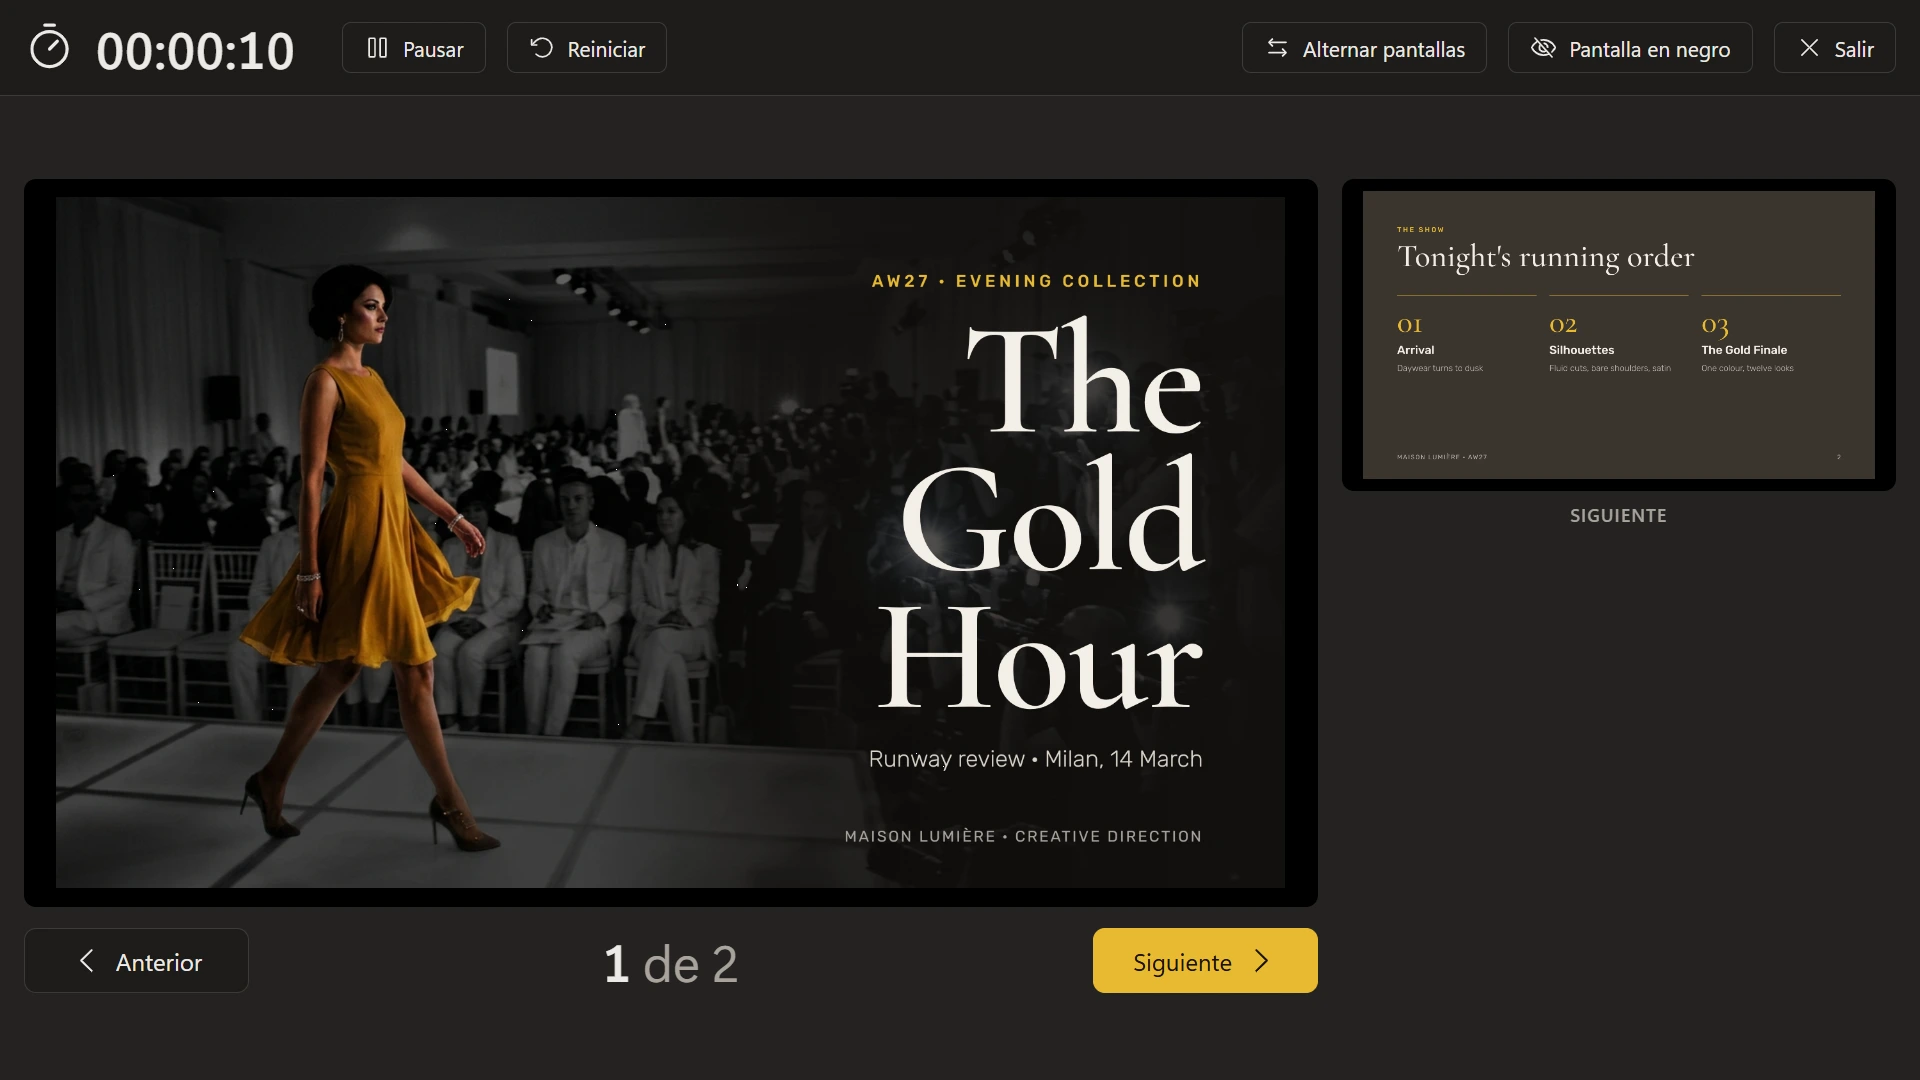
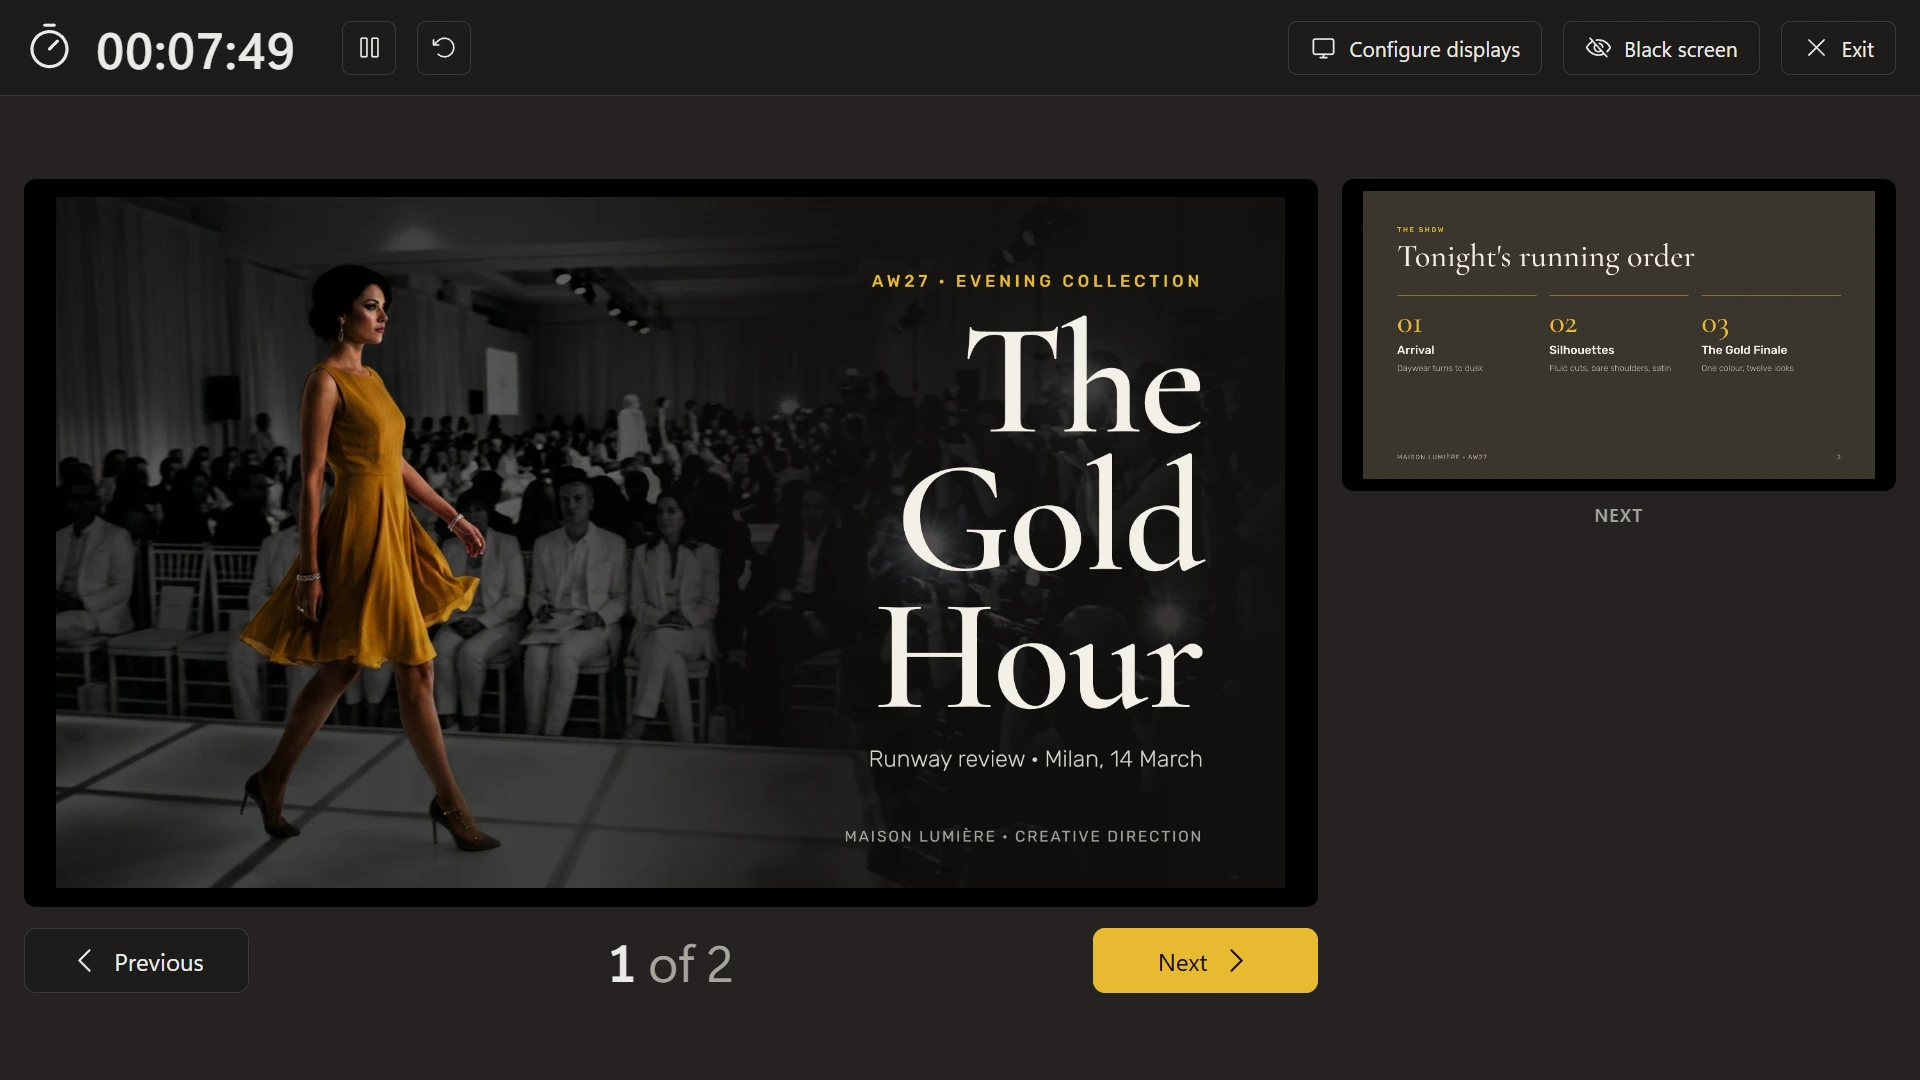
feat: website screenshots of the 1.3.0 speaker view

diff --git a/docs/website.md b/docs/website.md
@@ -53,7 +53,7 @@ The privacy URL `https://nilovelez.github.io/pdf-diva/privacy.html` is used in t
 - **`apple-touch-icon.png` (180) and `og.png` (1200×630)**: `og.png` is the dark background `#1D1C1B`, the rounded icon, "PDF Diva" and the tagline. They keep their current design on purpose.
 - **`star-icon.png`**: the small star next to "PDF Diva" in the header.
 - **`ms-store-badge-light.svg` / `ms-store-badge-dark.svg`**: Microsoft's official "Download from the Microsoft Store" badge (en-US), in the hero and the closing section, one per theme (`.only-light` / `.only-dark`), as tall as the buttons next to it. Microsoft's asset, used under its badge guidelines (see `THIRD-PARTY-NOTICES.md`). One edit on purpose: its border uses the site's `--line` colour (`#DDD9D3` light, `#3C3A37` dark) at 0.8 units, which is 1 px at the 55 px height used, so it looks like the buttons next to it. The buttons (`.btn`) have 6 px corners to match the badge's.
-- **Screenshots**: `screenshot-light.webp` and `screenshot-dark.webp` are the presenter view at 1920×1080 (150% scaling), same content in each theme. The originals are in OneDrive, `BOB Shared\PDF Presenter\`: `capturas-150/` (150% scaling, the ones used, files `light-3-presenter.png` and `dark-3-presenter.png`) and `capturas/` (100% scaling). They were converted to WebP at full resolution, quality 92, using the canvas of the project's own Electron (`canvas.toDataURL('image/webp', 0.92)`); any WebP encoder works. Keep the `width` and `height` attributes in `index.html` in sync with the files.
+- **Screenshots**: `screenshot-light.webp` and `screenshot-dark.webp` are the speaker view of version 1.3.0 at 1920×1080 (a laptop at 150% scaling), in English: the light one presents *The Fuchsia Hour*, the dark one *The Gold Hour* (sample PDFs we own). The originals are in OneDrive, `BOB Shared\PDF Presenter\capturas-1.3.0\en\` (`3-speaker-light.png` and `5-speaker-dark.png`); the same folder has the welcome screen, the reader and "Configure displays", in English and Spanish. They were converted to WebP at full resolution, quality 92, using the canvas of the project's own Electron (`canvas.toDataURL('image/webp', 0.92)`); any WebP encoder works. Keep the `width` and `height` attributes in `index.html` in sync with the files.
 
 ## Releasing a new version
 
